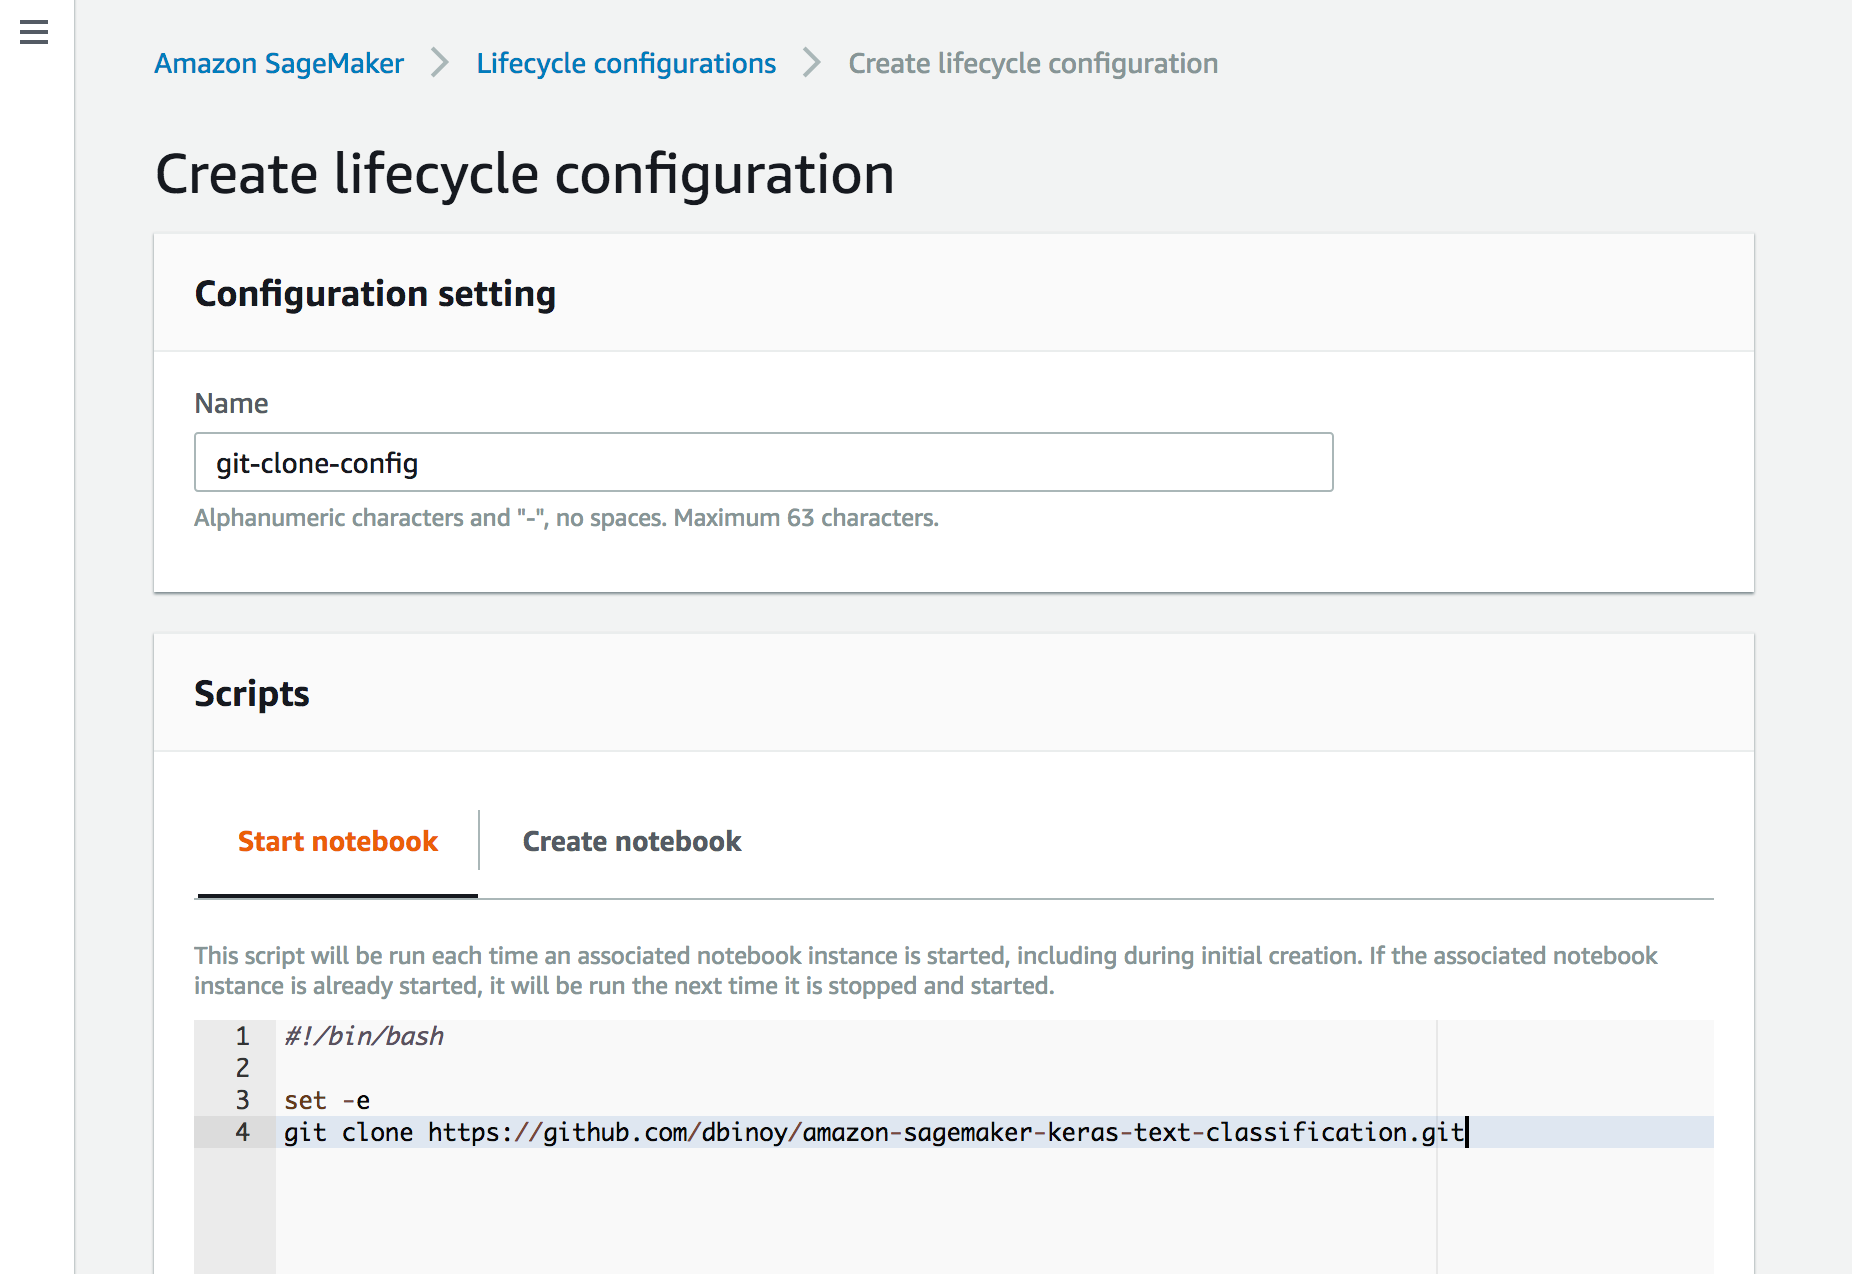
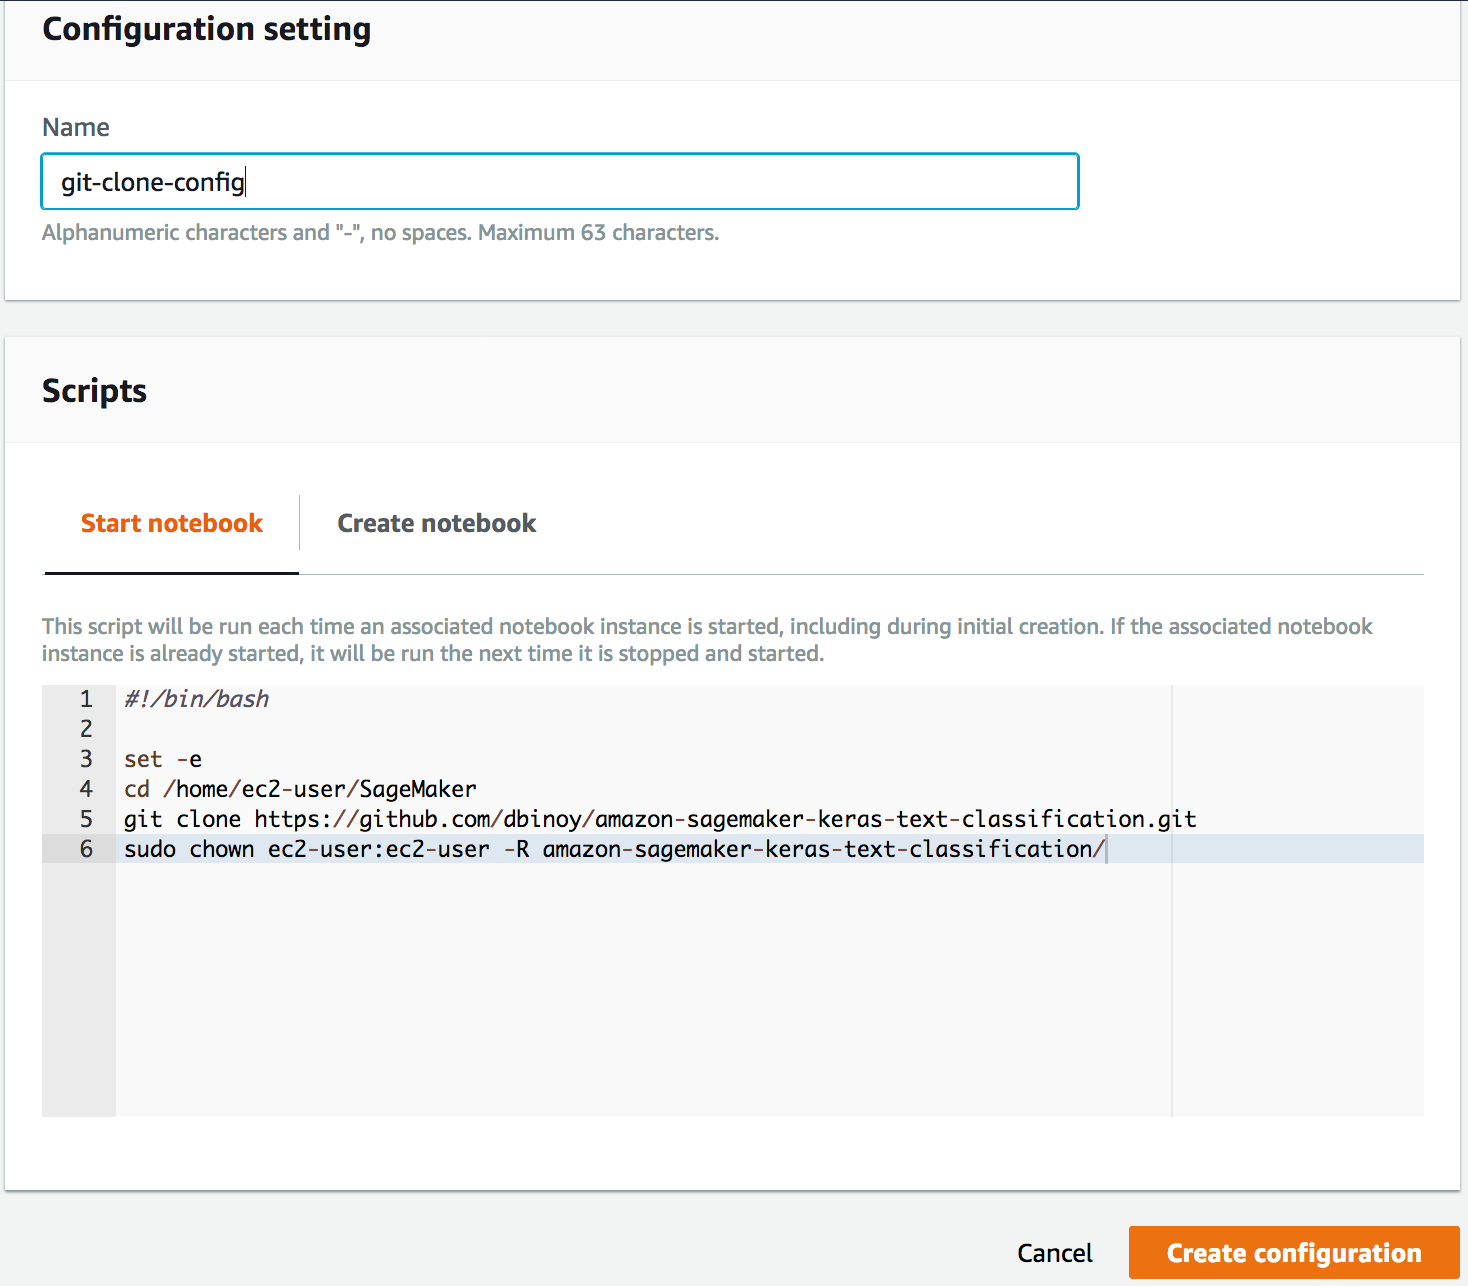
Update Readme

diff --git a/README.md b/README.md
@@ -46,7 +46,7 @@ Assuming your Notebook instance is in stopped state, add the following code into
 set -e
 cd /home/ec2-user/SageMaker
 git clone https://github.com/dbinoy/amazon-sagemaker-keras-text-classification.git
-
+sudo chown ec2-user:ec2-user -R amazon-sagemaker-keras-text-classification/
 ```
 
 ![SageMaker notebook configuration attach](/images/sm-keras-2b.png)
